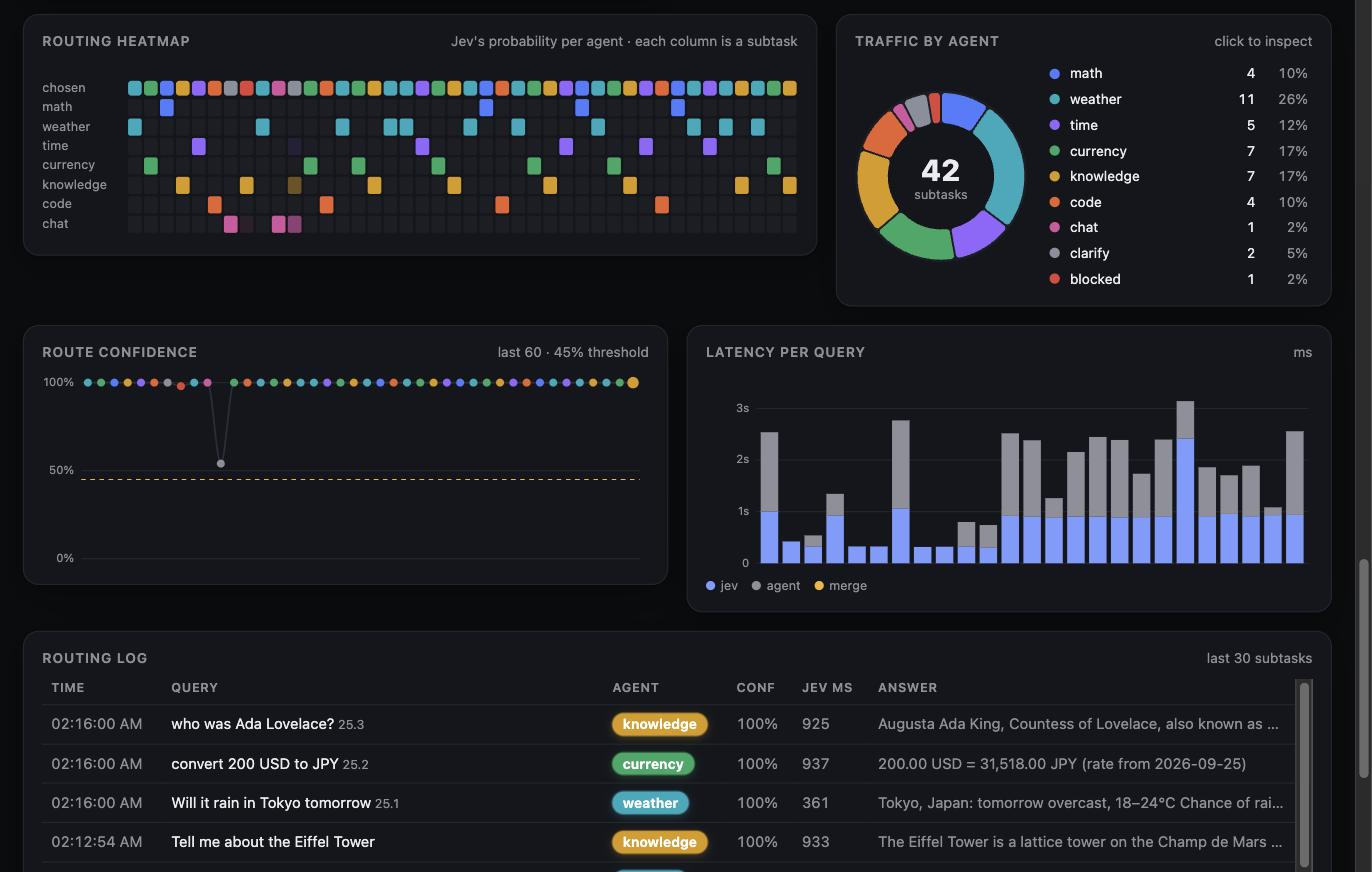
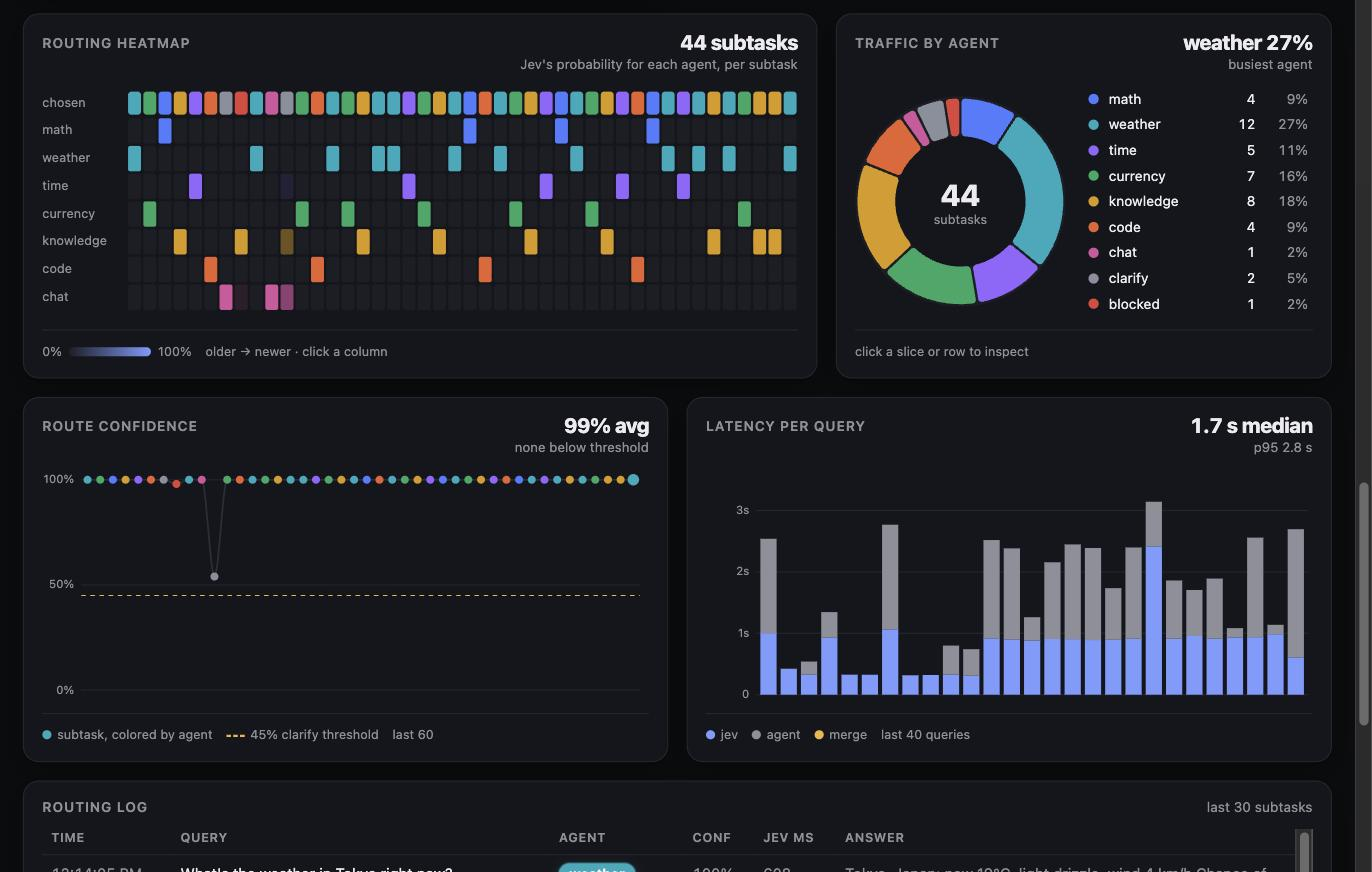
Unify analytics panels into one template
- New ChartPanel: title with headline figure and note, fixed-height chart
  body, legend footer; paired panels now align to identical heights
- Heatmap fills the body height and gets a 0-100% color scale and
  time-direction legend; confidence gets an agent/threshold legend
- Headline figures: subtasks routed, busiest agent, average confidence
  with count below threshold, median and p95 latency
- Refresh analytics screenshot

diff --git a/web/src/App.tsx b/web/src/App.tsx
@@ -2,9 +2,10 @@ import { useCallback, useEffect, useMemo, useRef, useState } from 'react'
 import { useEventStream, post } from './useEventStream'
 import type { ControlState } from './protocol'
 import { inFlight, latency, rows } from './lib'
+import { colorOf, MIN_CONFIDENCE } from './protocol'
 import Graph, { type AgentStat } from './components/Graph'
 import { ConfidenceChart, LatencyChart, LATENCY_COLORS, type ConfPoint, type LatencyPoint } from './components/Charts'
-import { AskBox, Inspector, Kpis, LatestRun, RoutingLog } from './components/Panels'
+import { AskBox, ChartPanel, Inspector, Kpis, LatestRun, RoutingLog } from './components/Panels'
 import { Donut, Heatmap, Waterfall } from './components/Viz'
 
 type Theme = 'auto' | 'light' | 'dark'
@@ -83,6 +84,24 @@ export default function App() {
   const lat = useMemo<LatencyPoint[]>(() => runs.filter(r => r.done && r.order.length).slice(-40)
     .map(r => ({ key: String(r.qid), label: r.text, ...latency(r) })), [rev])
   const heatAgents = useMemo(() => Object.keys(store.agents), [store.agents])
+
+  // Headline numbers for the analytics panels.
+  const summary = useMemo(() => {
+    const confs = conf.map(c => c.confidence)
+    const totals = lat.map(l => l.jev + l.agent + l.merge).sort((a, b) => a - b)
+    const q = (p: number) => (totals.length ? totals[Math.min(totals.length - 1, Math.floor(p * totals.length))] : null)
+    const top = [...traffic].sort((a, b) => b.count - a.count)[0]
+    const routedCount = allRows.filter(r => r.task.routed).length
+    return {
+      avgConf: confs.length ? confs.reduce((a, b) => a + b, 0) / confs.length : null,
+      low: confs.filter(c => c < MIN_CONFIDENCE).length,
+      p50: q(0.5), p95: q(0.95),
+      top: top && top.count ? top : null,
+      total: traffic.reduce((a, b) => a + b.count, 0),
+      routedCount,
+    }
+  }, [conf, lat, traffic, allRows])
+  const secs = (v: number | null) => (v == null ? '–' : v >= 1000 ? (v / 1000).toFixed(1) + ' s' : Math.round(v) + ' ms')
 
   // Errors surface as toasts for a few seconds, besides living in the run cards.
   const lastErr = useRef<string | null>(null)
@@ -192,21 +211,26 @@ export default function App() {
             <Waterfall run={shown} />
           </section>
         </div>
-        <div className="grid-2">
-          <section className="panel">
-            <h2>Routing heatmap <span>Jev's probability per agent · each column is a subtask</span></h2>
+        <div className="grid-2 chart-row">
+          <ChartPanel title="Routing heatmap" stat={`${summary.routedCount} subtasks`} note="Jev's probability for each agent, per subtask"
+            legend={<><span className="scale"><span>0%</span><i className="ramp" /><span>100%</span></span><span>older → newer · click a column</span></>}>
             <Heatmap rows={allRows} agents={heatAgents} onPick={tid => setSelected('t:' + tid)} />
-          </section>
-          <section className="panel">
-            <h2>Traffic by agent <span>click to inspect</span></h2>
+          </ChartPanel>
+          <ChartPanel title="Traffic by agent" stat={summary.top ? `${summary.top.agent} ${Math.round((summary.top.count / Math.max(1, summary.total)) * 100)}%` : '–'}
+            note="busiest agent" legend={<span>click a slice or row to inspect</span>}>
             <Donut data={traffic} onPick={a => setSelected('a:' + a)} />
-          </section>
+          </ChartPanel>
         </div>
-        <div className="grid-even">
-          <section className="panel"><h2>Route confidence <span>last 60 · 45% threshold</span></h2><ConfidenceChart data={conf} /></section>
-          <section className="panel"><h2>Latency per query <span>ms</span></h2><LatencyChart data={lat} />
-            <div className="legend">{Object.entries(LATENCY_COLORS).map(([k, c]) => <span key={k}><i style={{ background: c }} />{k}</span>)}</div>
-          </section>
+        <div className="grid-even chart-row">
+          <ChartPanel title="Route confidence" stat={summary.avgConf == null ? '–' : `${Math.round(summary.avgConf * 100)}% avg`}
+            note={summary.low ? `${summary.low} below threshold` : 'none below threshold'}
+            legend={<><span><i style={{ background: colorOf('weather') }} />subtask, colored by agent</span><span><i className="dash" />{Math.round(MIN_CONFIDENCE * 100)}% clarify threshold</span><span>last 60</span></>}>
+            <ConfidenceChart data={conf} />
+          </ChartPanel>
+          <ChartPanel title="Latency per query" stat={`${secs(summary.p50)} median`} note={`p95 ${secs(summary.p95)}`}
+            legend={<>{Object.entries(LATENCY_COLORS).map(([k, c]) => <span key={k}><i style={{ background: c }} />{k}</span>)}<span>last 40 queries</span></>}>
+            <LatencyChart data={lat} />
+          </ChartPanel>
         </div>
         <RoutingLog runs={runs} />
       </main>

diff --git a/web/src/styles.css b/web/src/styles.css
@@ -287,3 +287,25 @@ td.ans { color:var(--muted); max-width:340px; overflow:hidden; text-overflow:ell
 @media (prefers-reduced-motion: reduce) {
   *, *::before, *::after { animation-duration:.01ms !important; animation-iteration-count:1 !important; transition-duration:.01ms !important; }
 }
+
+/* ---------- analytics panel template ---------- */
+.chart-row { align-items:stretch; }
+.chart-panel { display:flex; flex-direction:column; gap:12px; }
+.cp-head { display:flex; justify-content:space-between; align-items:flex-start; gap:4px 12px; flex-wrap:wrap; }
+.cp-head h2 { margin:2px 0 0; }
+.cp-stat { display:flex; flex-direction:column; align-items:flex-end; text-align:right; }
+.cp-v { font-size:18px; font-weight:750; letter-spacing:-.02em; line-height:1.15; }
+.cp-note { font-size:11.5px; color:var(--muted); }
+.cp-body { height:200px; min-width:0; display:flex; align-items:center; }
+.cp-body > * { flex:1 1 auto; min-width:0; }
+.cp-legend { margin-top:auto; padding-top:10px; border-top:1px solid var(--line); min-height:28px; align-items:center; }
+.cp-legend .scale { display:inline-flex; align-items:center; gap:6px; }
+.cp-legend .ramp { width:72px; height:8px; border-radius:4px; margin:0; background:linear-gradient(90deg, var(--soft), var(--accent)); }
+.cp-legend .dash { width:16px; height:0; border-radius:0; border-top:2px dashed var(--warn); vertical-align:middle; }
+.chart-panel .donut { height:200px; flex-wrap:nowrap; }
+.chart-panel .donut-legend { align-content:center; }
+@media (max-width: 640px) {
+  .cp-stat { align-items:flex-start; text-align:left; }
+  .chart-panel .donut { height:auto; flex-wrap:wrap; justify-content:center; }
+  .chart-panel .cp-body:has(.donut) { height:auto; }
+}

diff --git a/web/src/components/Viz.tsx b/web/src/components/Viz.tsx
@@ -2,7 +2,7 @@ import { useEffect, useMemo, useRef, useState } from 'react'
 import * as d3 from 'd3'
 import { colorOf } from '../protocol'
 import type { Run } from '../useEventStream'
-import { useSize, type Row } from '../lib'
+import { CHART_H, useSize, type Row } from '../lib'
 
 // ---------- count-up numbers and sparklines for the KPI cards ----------
 
@@ -149,7 +149,7 @@ export function Heatmap({ rows, agents, onPick }: { rows: Row[]; agents: string[
   const [ref, size] = useSize<HTMLDivElement>()
   const w = size.width
   const cols = rows.filter(r => r.task.routed)
-  const labelW = 74, top = 14, cellH = 17
+  const labelW = 74, top = 2, cellH = (CHART_H - top - 4) / (agents.length + 1)
   const maxCols = Math.max(1, Math.floor((w - labelW) / 12))
   const shown = cols.slice(-maxCols)
   const cw = shown.length ? (w - labelW) / Math.max(shown.length, 30) : 0 // fills the width once 30 subtasks exist
@@ -184,7 +184,7 @@ export function Heatmap({ rows, agents, onPick }: { rows: Row[]; agents: string[
 // ---------- traffic donut ----------
 
 export function Donut({ data, onPick }: { data: Array<{ agent: string; count: number }>; onPick?: (agent: string) => void }) {
-  const size = 150, r = size / 2
+  const size = CHART_H - 16, r = size / 2
   const total = data.reduce((s, d) => s + d.count, 0)
   const live = data.filter(d => d.count > 0)
   const arcs = d3.pie<{ agent: string; count: number }>().value(d => d.count).sort(null).padAngle(0.02)(live)

diff --git a/web/src/components/Panels.tsx b/web/src/components/Panels.tsx
@@ -1,4 +1,4 @@
-import { useEffect, useRef, useState, type CSSProperties, type FormEvent, type KeyboardEvent, type RefObject } from 'react'
+import { useEffect, useRef, useState, type CSSProperties, type FormEvent, type KeyboardEvent, type ReactNode, type RefObject } from 'react'
 import { colorOf, type ControlState } from '../protocol'
 import type { Run, Store, Task } from '../useEventStream'
 import { post } from '../useEventStream'
@@ -267,5 +267,22 @@ export function Inspector({ id, store, onClose }: { id: string; store: Store; on
       <button type="button" className="close" onClick={onClose} aria-label="Close">×</button>
       {body}
     </div>
+  )
+}
+
+// One template for every analytics panel: title + headline number, a fixed-height chart body, and a legend footer.
+// Paired panels therefore always line up, whatever their data.
+export function ChartPanel({ title, stat, note, legend, children }: {
+  title: string; stat: ReactNode; note?: ReactNode; legend?: ReactNode; children: ReactNode
+}) {
+  return (
+    <section className="panel chart-panel">
+      <div className="cp-head">
+        <h2>{title}</h2>
+        <div className="cp-stat"><span className="cp-v num">{stat}</span>{note && <span className="cp-note">{note}</span>}</div>
+      </div>
+      <div className="cp-body">{children}</div>
+      <div className="legend cp-legend">{legend}</div>
+    </section>
   )
 }

diff --git a/web/src/lib.ts b/web/src/lib.ts
@@ -6,6 +6,9 @@ export interface Row { run: Run; task: Task }
 
 export const rows = (runs: Run[]): Row[] => runs.flatMap(run => run.order.map(tid => ({ run, task: run.tasks[tid] })).filter(r => r.task))
 
+// Every analytics chart body is this tall, so panels side by side line up exactly.
+export const CHART_H = 200
+
 export const inFlight = (runs: Run[]) => runs.filter(r => !r.done)
 
 // Prices come as $ per million tokens (0.042 / 5 / 25). Tolerate a per-token feed too.

diff --git a/web/src/components/Charts.tsx b/web/src/components/Charts.tsx
@@ -1,9 +1,9 @@
 import { useEffect, useRef } from 'react'
 import * as d3 from 'd3'
 import { MIN_CONFIDENCE, colorOf } from '../protocol'
-import { useSize } from '../lib'
+import { CHART_H, useSize } from '../lib'
 
-const H = 170
+const H = CHART_H
 
 function useChart<D>(data: D, draw: (svg: d3.Selection<SVGSVGElement, unknown, null, undefined>, w: number, h: number, data: D) => void) {
   const [wrapRef, size] = useSize<HTMLDivElement>()
